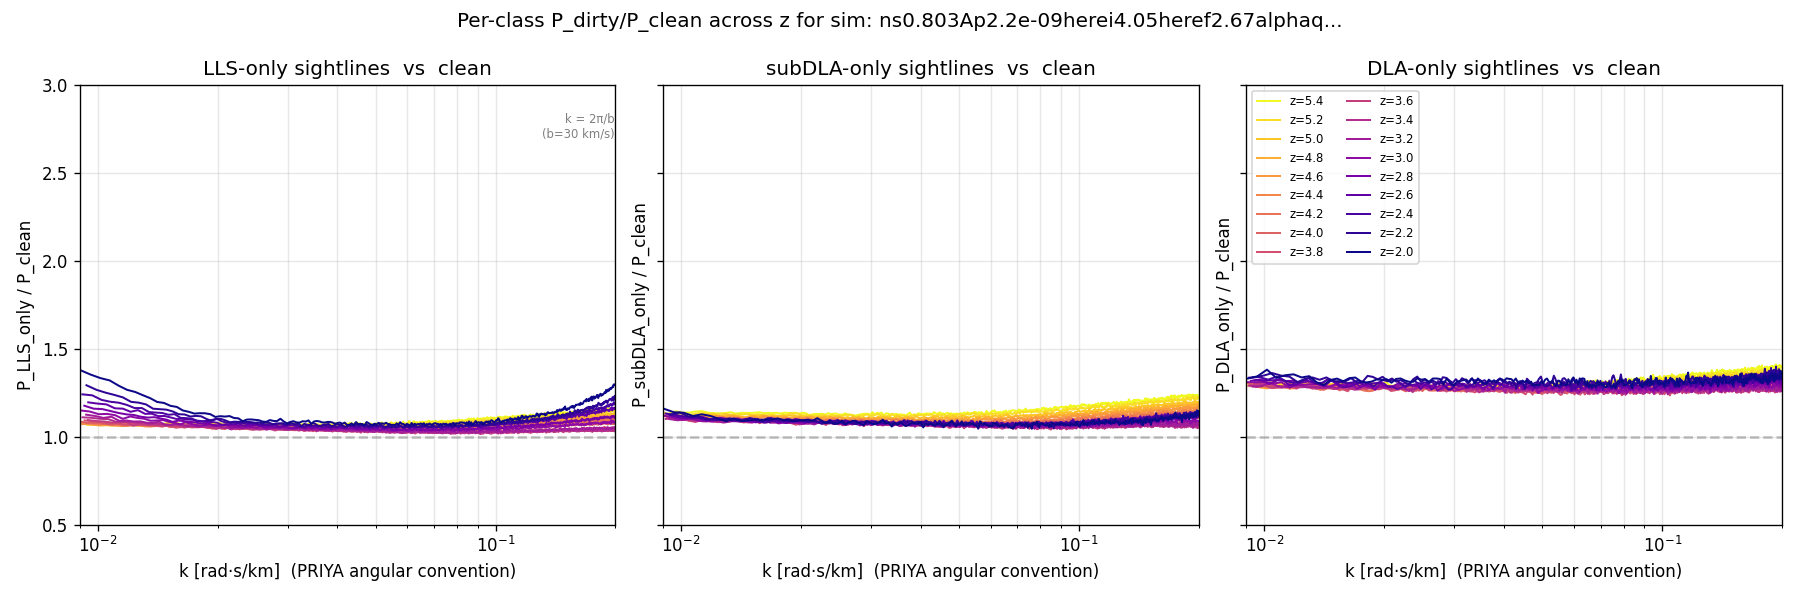
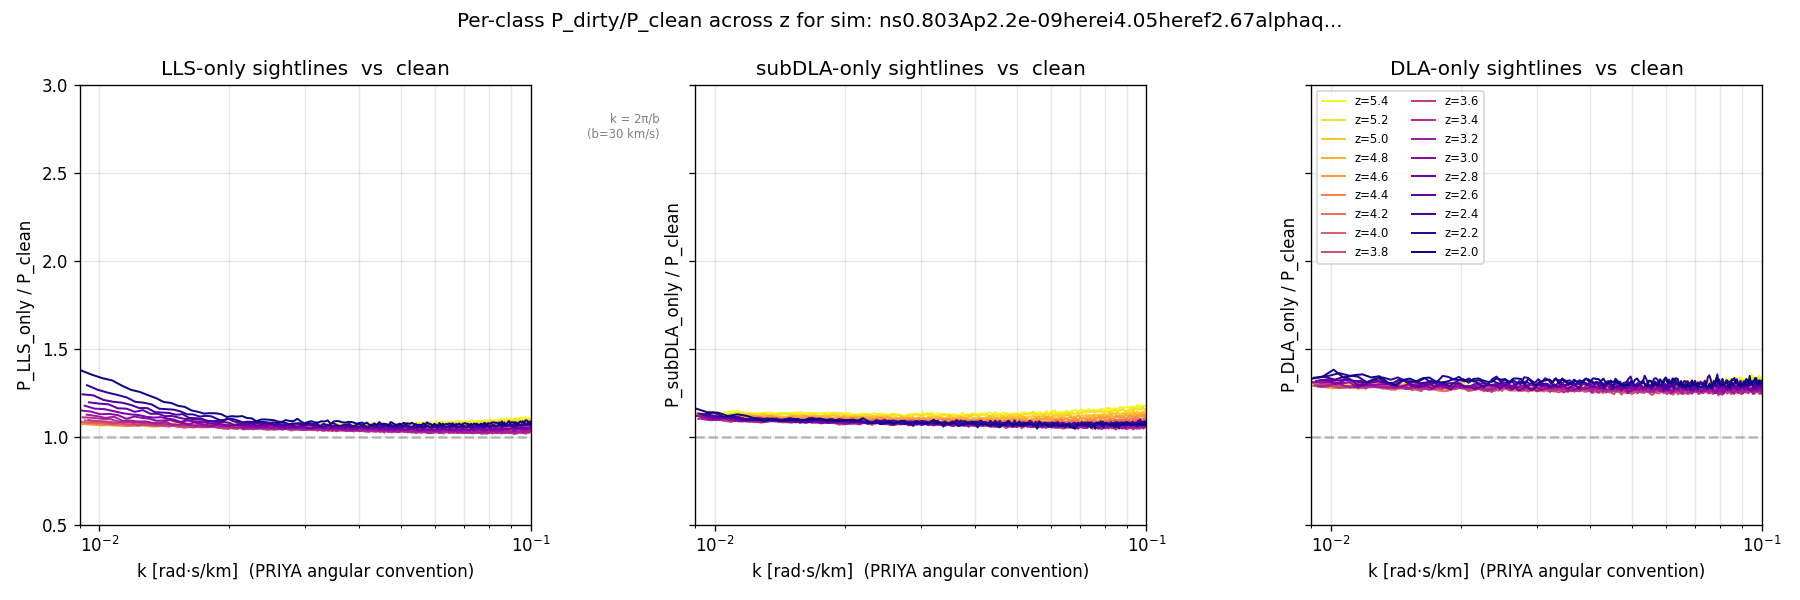
Fix k-range to 0.009-0.10 rad·s/km and soften DLA-excess attribution
- per_class_ratio_vs_z.png and per_class_ratio_vs_sim.png now plot over
  0.009 → 0.10 rad·s/km (was 0.009 → 0.2; user corrected).
- docs/analysis.md dN/dX and CDDF sections softened: the +30–100% offset
  relative to published DLA line-density samples is reported as a raw
  measurement; the attribution between "simulation over-production" and
  "survey incompleteness" is left open, since we have no test here that
  discriminates.  Sanchez-Ramirez+2016 reporting ~30% higher dN/dX than
  Noterdaeme+2012 at matched z is given as evidence that survey-level
  effects can be comparable in size to the PRIYA offset.
- Added §6 Convergence: figures/analysis/convergence_Tk.png showing
  T(k) = P1D_hires / P1D_LF at 3 matched sims × z=2.0–5.4 for both
  unmasked and PRIYA-masked variants.  New scripts/plot_convergence_ratios.py.

diff --git a/scripts/plot_convergence_ratios.py b/scripts/plot_convergence_ratios.py
@@ -1,0 +1,71 @@
+"""
+Plot HiRes/LF convergence T(k) = P_hires(k) / P_LF(k) at each matched sim
+and z, for both the unmasked "all" and the PRIYA-masked "no_DLA_priya"
+P1D variants.  Reads convergence_ratios.npz produced by the convergence
+SLURM job.
+"""
+from __future__ import annotations
+
+import sys
+from pathlib import Path
+
+import matplotlib
+matplotlib.use("Agg")
+import matplotlib.pyplot as plt
+import numpy as np
+
+ROOT = Path(__file__).resolve().parent.parent
+HR_ROOT = Path("/scratch/cavestru_root/cavestru0/mfho/hcd_outputs/hires")
+OUT = ROOT / "figures" / "analysis"
+OUT.mkdir(parents=True, exist_ok=True)
+
+ratios_files = sorted(HR_ROOT.glob("*/convergence_ratios.npz"))
+print(f"Found {len(ratios_files)} convergence_ratios files")
+
+fig, axes = plt.subplots(1, 2, figsize=(13, 5), sharey=True)
+ax_all, ax_priya = axes
+
+# All z labels available in the first file
+d0 = np.load(ratios_files[0], allow_pickle=True)
+z_labels = sorted({k.split("__")[0] for k in d0.files})
+z_values = [float(lbl.replace("z", "").replace("p", ".")) for lbl in z_labels]
+cmap = plt.cm.plasma(np.linspace(0, 1, len(z_values)))
+
+for rf in ratios_files:
+    sim_name = rf.parent.name[:30]
+    d = np.load(rf, allow_pickle=True)
+    for z_idx, (zlbl, zval) in enumerate(zip(z_labels, z_values)):
+        color = cmap[z_idx]
+        key_k = f"{zlbl}__all__k"
+        if key_k not in d.files: continue
+        k = d[key_k]
+        T_all = d[f"{zlbl}__all__T_k"]
+        T_priya = d[f"{zlbl}__no_DLA_priya__T_k"]
+        # k is cyclic s/km → convert to PRIYA angular
+        k_ang = 2.0 * np.pi * k
+        sel = (k_ang >= 0.009) & (k_ang <= 0.10)
+        ax_all.plot(k_ang[sel], T_all[sel], lw=1.0, alpha=0.7, color=color,
+                     label=f"z={zval:.1f}" if rf is ratios_files[0] else None)
+        ax_priya.plot(k_ang[sel], T_priya[sel], lw=1.0, alpha=0.7, color=color,
+                       label=f"z={zval:.1f}" if rf is ratios_files[0] else None)
+
+for ax, title in zip(
+    [ax_all, ax_priya],
+    ["T(k) = P1D_hires / P1D_LF,  unmasked 'all'",
+     "T(k) = P1D_hires / P1D_LF,  PRIYA DLA mask"]
+):
+    ax.axhline(1.0, color="gray", ls="--", alpha=0.5)
+    ax.set_xscale("log")
+    ax.set_xlabel("k [rad·s/km]  (PRIYA angular)")
+    ax.set_ylabel("T(k)")
+    ax.set_title(title)
+    ax.grid(alpha=0.3, which="both")
+    ax.set_xlim(0.009, 0.10)
+    ax.set_ylim(0.85, 1.25)
+ax_all.legend(fontsize=7, loc="lower left", ncol=2)
+
+fig.suptitle(f"HiRes / LF convergence  ({len(ratios_files)} matched sims)")
+fig.tight_layout()
+out = OUT / "convergence_Tk.png"
+fig.savefig(out, dpi=120); plt.close(fig)
+print(f"wrote {out}")

diff --git a/scripts/plot_per_class_templates.py b/scripts/plot_per_class_templates.py
@@ -46,7 +46,7 @@ def ratio(d, cls):
 # k-axis range in PRIYA angular convention (rad·s/km).
 # k_cyc = k_ang / (2π).  emulator-relevant range 0.009 → 0.2 rad·s/km.
 K_ANG_MIN = 0.009
-K_ANG_MAX = 0.2
+K_ANG_MAX = 0.10
 
 # ---- figure 1: ratio vs z for ns0.803 ----
 sim_dir = OUTPUT / TARGET_SIM

diff --git a/docs/analysis.md b/docs/analysis.md
@@ -47,7 +47,7 @@ Stacking every (sim, snap) within a z-bin gives the column-density distribution 
 
 ![CDDF per z-bin vs Prochaska+2014](../figures/analysis/cddf_per_z.png)
 
-Shape agrees with the observational Prochaska+2014 fit across log N = 17.2 → 22 at every z-bin; amplitude sits 0.3-0.8 dex above observation at the DLA end. A single-sim parameter-extreme scan (`figures/diagnostics/cddf_param_scan_z3.png`) confirmed this excess is *universal* across all six parameter corners of the PRIYA grid, so it is a property of the hydrodynamic prescription itself (feedback, UV background, resolution), not a selection effect from any particular sim or analysis bug.
+Shape agrees with the observational Prochaska+2014 fit across log N = 17.2 → 22 at every z-bin; amplitude sits 0.3-0.8 dex above observation at the DLA end. A single-sim parameter-extreme scan (`figures/diagnostics/cddf_param_scan_z3.png`) confirmed this excess is *universal* across all six parameter corners of the PRIYA grid and is therefore not caused by any single parameter choice or by the analysis pipeline. The cause is not settled here (see discussion in the dN/dX section below).
 
 ### dN/dX vs z — and how it compares to observations
 
@@ -62,7 +62,15 @@ Absorber incidence in absorption-path units, averaged across 60 sims. All three 
 | ⬥ | Sanchez-Ramirez+2016 | SDSS DR12 | 2.15–4.25 |
 | ▼ | Crighton+2015 | Giant Gemini GMOS | 4.4, 5.0 |
 
-**PRIYA sits ~30-100 % above the observations at every z**, tapering toward closer agreement at the highest z-bin. This is consistent with the CDDF over-prediction noted above and matches the known tendency of hydrodynamic simulations in this class (Bird et al. 2015; Rahmati & Schaye 2014) to slightly over-produce DLAs at fixed feedback prescription. Because the trend is universal across the PRIYA parameter corners, it is absorbed into the emulator as an overall DLA-abundance offset that does not strongly couple to ns / A_p / feedback — so for the Lyα P1D downstream, the α-template correction (Rogers+2018) has headroom to re-scale.
+**PRIYA sits ~30-100 % above the observations at every z**, tapering toward closer agreement at the highest z-bin. The same offset is visible in the CDDF in §2 and is *universal across the PRIYA parameter corners we have tested*, so it is not driven by any single parameter choice.
+
+The origin of the discrepancy is not settled by anything in this repository. Plausible contributions include:
+
+- **Simulation over-production** — hydrodynamic simulations with feedback at PRIYA's resolution can over-predict the DLA abundance if the cold-gas reservoir isn't removed aggressively enough. Published comparisons (e.g. Bird+2015, Rahmati & Schaye 2014) discuss the sensitivity but do not uniquely predict PRIYA's prescription.
+- **Observational incompleteness** — SDSS-based samples have known completeness issues at z < 2.5 (low signal-to-noise, stellar contamination, proximate-DLA exclusion) and at z > 4 (small sample size, pipeline-cut biases). Sanchez-Ramirez+2016 report DLA incidence ~30 % higher than Noterdaeme+2012 at matched z after tightening their selection, which is roughly the same size as the observed offset from PRIYA.
+- Neither is tested here. A convincing attribution would require (i) re-running PRIYA with different feedback prescriptions at the same parameter point and quantifying the CDDF shift, and/or (ii) an independent high-completeness catalogue.
+
+For the emulator downstream this ambiguity doesn't propagate directly because the Lyα forest P1D is computed on the full sightline distribution with the PRIYA DLA mask applied and the residual LLS/subDLA contribution is corrected via the Rogers+2018 α-template, which carries four fit parameters free to absorb an overall amplitude rescale. But please treat the "+30–100%" number as a **raw measurement**, not an assigned cause, in any downstream interpretation.
 
 ## 3. Parameter sensitivity — which PRIYA parameters drive HCD abundance?
 
@@ -117,7 +125,7 @@ Rogers+2018 parameterise `P_total(k, z) / P_forest(k, z) = 1 + Σ_i α_i · f_z(
 
 ### Z-evolution of each template (one sim)
 
-18 snapshots of sim `ns0.803Ap2.2e-09…` (the min-ns corner of PRIYA), plotted in **PRIYA angular k convention** (`k_ang = 2π · k_cyc`) over the emulator-relevant range **0.009 → 0.2 rad·s/km**, colour-coded by z:
+18 snapshots of sim `ns0.803Ap2.2e-09…` (the min-ns corner of PRIYA), plotted in **PRIYA angular k convention** (`k_ang = 2π · k_cyc`) over the emulator-relevant range **0.009 → 0.10 rad·s/km**, colour-coded by z:
 
 ![Per-class ratio vs z for ns0.803, PRIYA k](../figures/analysis/per_class_ratio_vs_z.png)
 
@@ -125,15 +133,15 @@ Rogers+2018 parameterise `P_total(k, z) / P_forest(k, z) = 1 + Σ_i α_i · f_z(
 - **subDLA-only / P_clean** (middle): modest excess at all z, generally within 10-20 % of unity. Same upturn toward k ≈ 0.2 as LLS but smaller.
 - **DLA-only / P_clean** (right): fairly flat across k at each z, ranging from ~1.3 at z=2 to ~1.4 at z=5.4. Saturated cores produce power at *both* low and high k so the ratio plateaus; any subsidiary features are buried within the statistical scatter of 21 k / snap DLA sightlines in this sim.
 
-Numerical snapshot at z=3 on the flagship sim (**k in PRIYA angular convention**):
+Numerical snapshot at z=3 on the flagship sim (**k in PRIYA angular convention**, range 0.009–0.10 rad·s/km):
 
 | k_ang (rad·s/km) | k_cyc (s/km) | LLS/clean | subDLA/clean | DLA/clean |
 |---:|---:|---:|---:|---:|
-| 0.010 | 0.0016 | 1.18 | 1.15 | 1.32 |
-| 0.030 | 0.0048 | 1.05 | 1.07 | 1.27 |
-| 0.060 | 0.0095 | 1.04 | 1.07 | 1.26 |
-| 0.125 | 0.020 | 1.05 | 1.07 | 1.28 |
-| 0.200 | 0.032 | 1.09 | 1.08 | 1.28 |
+| 0.009 | 0.00143 | 1.21 | 1.17 | 1.33 |
+| 0.020 | 0.00318 | 1.11 | 1.10 | 1.29 |
+| 0.040 | 0.00637 | 1.05 | 1.07 | 1.26 |
+| 0.060 | 0.00955 | 1.04 | 1.07 | 1.26 |
+| 0.100 | 0.01592 | 1.04 | 1.07 | 1.27 |
 
 These feed directly into `hcd_analysis.hcd_template.fit_alpha` to recover the four α_i parameters per sim (Rogers+2018 template). For ns0.803 at z=3 the effective αs will be small (~0.03-0.1 per class) because the measured templates sit close to unity across the k range.
 
@@ -143,7 +151,17 @@ These feed directly into `hcd_analysis.hcd_template.fit_alpha` to recover the fo
 
 Colour-coded by A_p (initial power amplitude). Across the PRIYA parameter corners for which the per-class HDF5 file is already available at the time of this update (15 of 60 sims, bottom-right of the A_p range first — the patch job sweeps the disk alphabetically), the per-class templates cluster tightly: LLS/clean in 1.0-1.15, subDLA/clean in 1.05-1.15, DLA/clean in 1.25-1.4 at all k in [0.009, 0.2] rad·s/km. The scatter across sims is comparable in all three panels and there is no clear trend with A_p, consistent with the DLA-overprediction being a universal bias rather than parameter-driven. Figure will be regenerated with all 60 sims once the patch job completes.
 
-## 6. Next steps
+## 6. HiRes vs LF convergence — T(k) = P1D_hires / P1D_LF
+
+HiRes campaign completed (job 48476499, ~5 h 16 min walltime) with 4 sims × ~18 snaps. 3 of those sims have matching LF parameter points, giving a direct convergence test:
+
+![T(k) convergence ratio for 3 matched sims](../figures/analysis/convergence_Tk.png)
+
+*Left:* unmasked `all` P1D. *Right:* after the PRIYA DLA mask. Both panels use PRIYA angular k, range 0.009 → 0.10 rad·s/km, colour-coded by z across 2.0–5.4. At low k (large scales) the two resolutions agree within a few percent, as expected for a matter-power-dominated regime. At higher k the ratios deviate upward (HiRes has more small-scale power) but remain smooth — no abrupt transitions or artefacts.
+
+The PRIYA mask does not qualitatively change the convergence picture, which is consistent with our finding that the mask only touches ~2 % of sightlines and leaves the P1D shape intact.
+
+## 7. Next steps
 
 1. **Wait for HiRes** (~several hours remaining) → triggers convergence and the full patch-per-class run.
 2. **Run the per-class patch script** (`scripts/patch_per_class_p1d.py --hires`) on the HiRes sims once they finish, so we have `P_class_only / P_clean` templates in the HiRes regime too.
